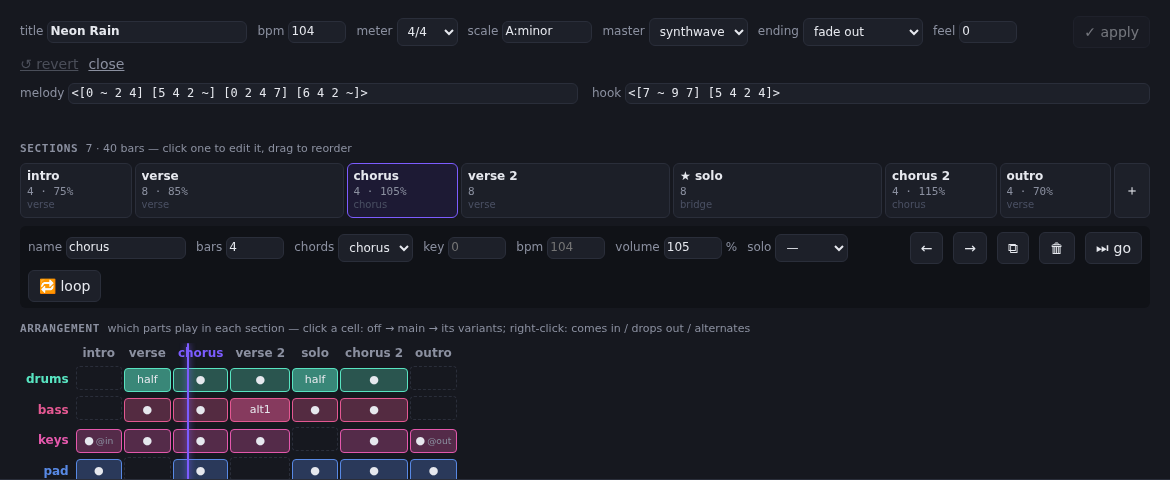
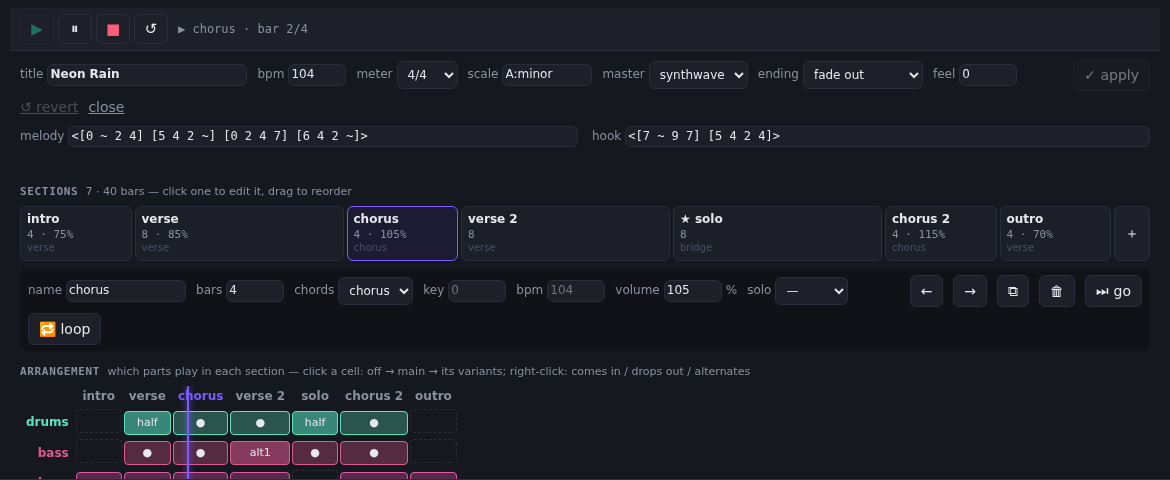
Song editor: its own transport for the song being edited (1.57.0)
- Play, pause, stop, restart at the top of Edit song (sticky), working
  on the edited song: play starts it or resumes it after a pause; restart
  plays it from its first section. A live line shows section and bar,
  paused, holding, or which other song is playing.
- Replaces the editor's lone "play" button.
- Smoke: pause, resume, stop and restart from the editor's transport.

Claude-Session: https://claude.ai/code/session_01GC2ET4GWSYoCHx1mBkpVEy

diff --git a/public/features/song-editor.js b/public/features/song-editor.js
@@ -10,7 +10,7 @@ import { signed } from '../lib/util.js';
 import { arrangeSong, carryLiveState, sectionAfterEdit, sectionCode } from '../lib/arrange.js';
 import { loadPads, padsState } from './pads.js';
 import { STYLE_NAMES } from '../master.js';
-import { $, atSectionStart, clog, engine, evaluateCode, fadeCycles, getCode, isPlaying, jumpTo, nextBoundary, nowCycle, queue, setHold, state, ws } from '../app.js';
+import { $, atSectionStart, clog, engine, evaluateCode, fadeCycles, getCode, isPlaying, jumpTo, nextBoundary, nowCycle, pauseSong, queue, restartSong, resumeSong, setHold, state, ws } from '../app.js';
 import { normalizeSheet } from './bands.js';
 import { prepareCode } from './sound-check.js';
 import { songsChanged, renderSongs, playFromSection } from './song-lists.js';
@@ -384,6 +384,15 @@ const edit = {
   revert() { openDraft(draft.sg, { sel: draft.sel, open: draft.open, msg: '↺ back to the song as it is' }); renderSongEditor(); },
   close() { ws.close('edit'); songEdit.sg = null; draft = null; songsChanged(); renderSongs(); },
   play() { playSong(draft.sg); },
+  // ▶ ⏸ ■ ↺ at the top: they work on this song (Now playing's work on whatever plays)
+  tPlay() {
+    const t = editTransport();
+    if (t.paused) resumeSong();
+    else if (!t.playing) playSong(draft.sg);
+  },
+  tPause() { if (editTransport().playing) pauseSong(); },
+  tStop() { $('stop').onclick(); },
+  tRestart() { if (editTransport().current) restartSong(); else playFromSection(draft.sg, 0); },
   jump(i) { const k = stepOf(i); if (k >= 0 && engine.running) jumpTo(k); else playFromSection(draft.sg, i); },
   loop(i) { const k = stepOf(i); if (k >= 0 && engine.running) { jumpTo(k); setHold(true); } else playFromSection(draft.sg, i, { hold: true }); },
 };
@@ -398,6 +407,7 @@ function stepOf(i) {
  * column, as far through it as the section has played). Hidden while that song isn't playing. Called every frame.
  */
 export function updatePlayhead() {
+  updateEditTransport();
   const line = $('editForm').querySelector('.se-playhead');
   if (!line) return;
   const sg = draft?.sg;
@@ -417,6 +427,43 @@ export function updatePlayhead() {
   line.style.left = `${table.offsetLeft + th.offsetLeft + frac * th.offsetWidth}px`; // (a cell's offset is from its table)
   line.style.top = `${table.offsetTop}px`;
   line.style.height = `${table.offsetHeight}px`;
+}
+
+/**
+ * Where the song being edited is: current (the playlist's song now), playing (and heard), paused, the section and
+ * bar it's at — and another song, if that's the one playing.
+ */
+function editTransport() {
+  const sg = draft?.sg;
+  const songs = sg ? [sg, ...linkedSongs(sg)] : [];
+  const cur = queue.running ? queue.songs[queue.current] : null;
+  const current = !!cur && songs.includes(cur);
+  const paused = !!engine.paused && songs.includes(engine.paused.step.song);
+  const playing = current && !paused && isPlaying();
+  const st = playing ? engine.steps.find((x) => x.status === 'playing' && songs.includes(x.song)) : null;
+  return { current, paused, playing, st, other: !current && isPlaying() && cur ? cur : null };
+}
+/** The transport at the top of the editor: its buttons and line, by hand (called every frame while it plays). */
+function updateEditTransport() {
+  const bar = $('editForm').querySelector('.se-transport');
+  if (!bar || !draft) return;
+  const t = editTransport();
+  const btn = (k) => bar.querySelector(`[data-et="${k}"]`);
+  btn('play').disabled = t.playing;
+  btn('play').classList.toggle('on', t.paused);
+  btn('pause').disabled = !t.playing;
+  btn('stop').disabled = !isPlaying() && !queue.running && !engine.paused;
+  let line;
+  if (t.paused) line = `⏸ paused · ${engine.paused.step.prompt || ''} · bar ${engine.paused.bar + 1} — ▶ carries on`;
+  else if (t.st) {
+    const len = Math.max(1, t.st.bars);
+    const at = t.st.startedAt != null ? Math.floor(Math.max(0, nowCycle() - t.st.startedAt)) % len + 1 : 1;
+    line = `▶ ${t.st.prompt || ''} · bar ${at}/${len}${engine.hold ? ' · 🔁 holding' : ''}`;
+  } else if (t.current && queue.running) line = '✎ getting it ready…';
+  else if (t.other) line = `another song is playing: “${t.other.title}” — ▶ plays this one`;
+  else line = '■ not playing — ▶ to hear it';
+  const el = bar.querySelector('.se-tline');
+  if (el.textContent !== line) el.textContent = line;
 }
 
 /** The ✎ Edit song editor (templates/song-editor.js) for the song being edited. */
@@ -449,6 +496,7 @@ export function renderSongEditor() {
     parts: r.parts.map((p, i) => ({ i, name: p.name, role: p.role, sound: p.sound, variants: p.variants.join(', '), color: vizColor(p.name), open: draft.open.has(p.name), defs: defsOf(p.name) })),
     roles: BAND_ROLES,
   }, edit), $('editForm'));
+  updateEditTransport();
   renderPartEditor(); // the 🧩 part editor shows the same draft
 }
 

diff --git a/public/templates/song-editor.js b/public/templates/song-editor.js
@@ -14,11 +14,20 @@ import { html, nothing, repeat } from '../html.js';
  * act: { field(k, v), selectSection(i), sectionField(i, k, v), moveSection(i, d), dupSection(i), delSection(i), addSection(),
  *        dragSection(i), dropSection(i), cell(part, i), cellEnter(part, i), chordName(old, name), chords(name, text),
  *        addChords(), delChords(name), partField(i, k, v), addPart(), delPart(i), togglePart(i), def(id, code),
- *        ask(part, text), editPart(part), apply(), revert(), close(), play(), jump(i), loop(i) }
+ *        ask(part, text), editPart(part), apply(), revert(), close(), play(), jump(i), loop(i),
+ *        tPlay(), tPause(), tStop(), tRestart() }  (the transport at the top: features/song-editor.js sets its buttons and
+ *        its line (.se-tline) by hand as the song plays — no template values inside them)
  */
 export function songEditor(v, act) {
   const num = (val, k, attrs = {}) => html`<input type="number" class="se-num" .value=${String(val ?? '')} min=${attrs.min ?? nothing} max=${attrs.max ?? nothing} placeholder=${attrs.placeholder ?? nothing} @change=${(e) => act[attrs.on || 'field'](...(attrs.args || []), k, e.target.value)} />`;
   return html`<div class="se">
+    <div class="se-transport" title="The transport for this song">
+      <button data-et="play" title="Play this song (▶ again after ⏸ carries on where it paused)" @click=${act.tPlay}>▶</button>
+      <button data-et="pause" title="Pause it where it is (section and bar)" @click=${act.tPause}>⏸</button>
+      <button data-et="stop" title="Stop (Ctrl+.)" @click=${act.tStop}>■</button>
+      <button data-et="restart" title="This song again from its first section, fresh" @click=${act.tRestart}>↺</button>
+      <span class="se-tline"></span>
+    </div>
     <div class="se-head">
       <label>title <input class="se-title" .value=${v.title} @change=${(e) => act.field('title', e.target.value)} /></label>
       <label>bpm ${num(v.bpm, 'bpm', { min: 40, max: 220 })}</label>
@@ -29,7 +38,6 @@ export function songEditor(v, act) {
         <option value="fade" ?selected=${v.ending !== 'cut'}>fade out</option><option value="cut" ?selected=${v.ending === 'cut'}>stop + silence</option></select></label>
       <label title="Feel: how loosely the band plays — 0 = on the grid, like a machine; 100 = a live band (each note a little softer or louder, a little behind the beat)">feel ${num(v.feel, 'feel', { min: 0, max: 100 })}</label>
       <span class="spacer"></span>
-      ${v.playing ? nothing : html`<button title="Play this song" @click=${act.play}>▶ play</button>`}
       <button class="se-apply${v.dirty ? ' dirty' : ''}" ?disabled=${!v.dirty} title="Check the changes and switch the song over (from its next section, if it's playing)" @click=${act.apply}>✓ apply</button>
       <button class="link" ?disabled=${!v.dirty} title="Throw away the changes" @click=${act.revert}>↺ revert</button>
       <button class="link" title="Close the editor" @click=${act.close}>close</button>

diff --git a/public/style.css b/public/style.css
@@ -665,6 +665,14 @@ body.hydra-behind #editor-wrap .cm-line > span, body.hydra-behind #editor-wrap .
 .dv-fixed-tab { padding: 0 12px; display: flex; align-items: center; height: 100%; white-space: nowrap; }
 /* ✎ Edit song panel */
 #editPanel { padding: 8px 10px; overflow-y: auto; gap: 8px; }
+/* ✎ Edit song: its own transport, stuck to the top while the editor scrolls */
+.se-transport { position: sticky; top: -8px; z-index: 3; display: flex; align-items: center; gap: 4px; flex-wrap: wrap;
+  margin: -8px -10px 0; padding: 6px 10px; background: var(--panel-2, var(--panel)); border-bottom: 1px solid var(--border); }
+.se-transport button { min-width: 34px; height: 30px; padding: 0 8px; font-size: 15px; line-height: 1; }
+.se-transport [data-et="play"] { color: var(--accent-2); }
+.se-transport [data-et="stop"] { color: var(--danger); }
+.se-transport button.on { border-color: var(--accent-2); box-shadow: 0 0 0 1px var(--accent-2) inset; }
+.se-tline { flex: 1; min-width: 0; margin-left: 6px; font: 12px var(--mono); color: var(--muted); white-space: nowrap; overflow: hidden; text-overflow: ellipsis; }
 #editForm .sv-edit { border: 1px solid var(--border); border-radius: 8px; padding: 8px 10px; background: var(--sunken); }
 .nowrap { white-space: nowrap; }
 /* the transport at the top left of the code */

diff --git a/README.md b/README.md
@@ -291,6 +291,7 @@ A song's sheet and sections show in two places only:
     - **When the song has stopped,** it plays the song again starting there. The same goes for ⏭ go and 🔁 loop in ✎ Edit song.
   - **⏸ hold this section** stays on it until you pick another.
 - **✎ Edit song:** **✎ Edit** opens the song editor in its own panel. In 🎼 Studio it gets the big space under the code. You change a draft of the song, and **✓ apply** checks it, test-plays the parts and switches the song over. If it's playing, you hear the section playing now change from the next bar.
+  - **Its own transport** stays at the top while you scroll: **▶** plays this song (or carries on after a pause), **⏸** pauses it where it is, **■** stops, **↺** plays it again from its first section. The line beside them says where it is (section and bar, holding, paused), or which other song is playing. No trip to 🎶 Now playing to start and stop it.
   - **Song:** title, tempo, meter, scale, master style and **feel** (0 = on the grid, 100 = a loose live band).
   - **Sections:** a timeline, with each section as wide as its bars. Click one to edit its name, bars, chord progression, key change and tempo. You can move it (← → or drag), duplicate it, delete it, add one, or, while the song plays, **⏭ go** there or **🔁 loop** it while you work.
   - **Arrangement:** a grid of parts × sections. Click a cell to cycle off → the main version → the part's other variants. Right-click it to make the part come in halfway, drop out halfway or alternate. While the song plays, a **playhead line** moves across the grid with it.

diff --git a/CHANGELOG.md b/CHANGELOG.md
@@ -2,6 +2,16 @@
 
 The version is in `package.json`. Bump it when you release. Open pages also notice *any* redeploy through the build id, which is a hash of the app files, even if the version wasn't bumped.
 
+## 1.57.0
+- **✎ Edit song has its own transport:** **▶ ⏸ ■ ↺** at the top of the editor, staying there while you scroll. They work on the song you're editing, so you don't have to go to 🎶 Now playing to start and stop it.
+  - **▶** plays this song, or carries on after **⏸**. It's off while the song plays.
+  - **⏸** pauses it where it is (section and bar).
+  - **■** stops.
+  - **↺** plays it again from its first section, fresh.
+  - The line beside them is live: `▶ chorus · bar 3/8` (and 🔁 when holding), paused at which bar, getting it ready, or which other song is playing.
+  - It replaces the editor's lone "▶ play".
+- **Tests:** a smoke step pauses, resumes, stops and restarts a song from the editor's transport and checks the line and the buttons.
+
 ## 1.56.0
 - **🔀 Routing: the knobs are on the nodes.**
   - Each effect card has its own dials (compressor threshold, ratio, attack, release and makeup; drive and mix; …) and a ⏻ bypass switch, like a pedalboard. The side panel no longer repeats them.

diff --git a/docs/FEATURES.md b/docs/FEATURES.md
@@ -20,7 +20,7 @@ Pick or describe a station, put it on air, and an AI agent keeps inventing, writ
 The chat changes the song open in ✎ Edit song; a new song described in the chat is written, plays and opens there.
 ![Studio mode](screenshots/06-studio-mode.png)
 
-**✎ Edit song:** the song's title, tempo, meter, scale, master style, ending and feel; melody and hook; sections on a timeline (bars, chords, key, tempo, volume, solo, ⏭ go, 🔁 loop); the arrangement; chord progressions; and the parts.
+**✎ Edit song:** its own ▶ ⏸ ■ ↺ for the song at the top (with where it is: section and bar); the song's title, tempo, meter, scale, master style, ending and feel; melody and hook; sections on a timeline (bars, chords, key, tempo, volume, solo, ⏭ go, 🔁 loop); the arrangement; chord progressions; and the parts.
 ![Song editor](screenshots/07-song-editor.png)
 
 **Arrangement:** which parts play in each section (variants, coming in / dropping out). The playhead line follows the song.
